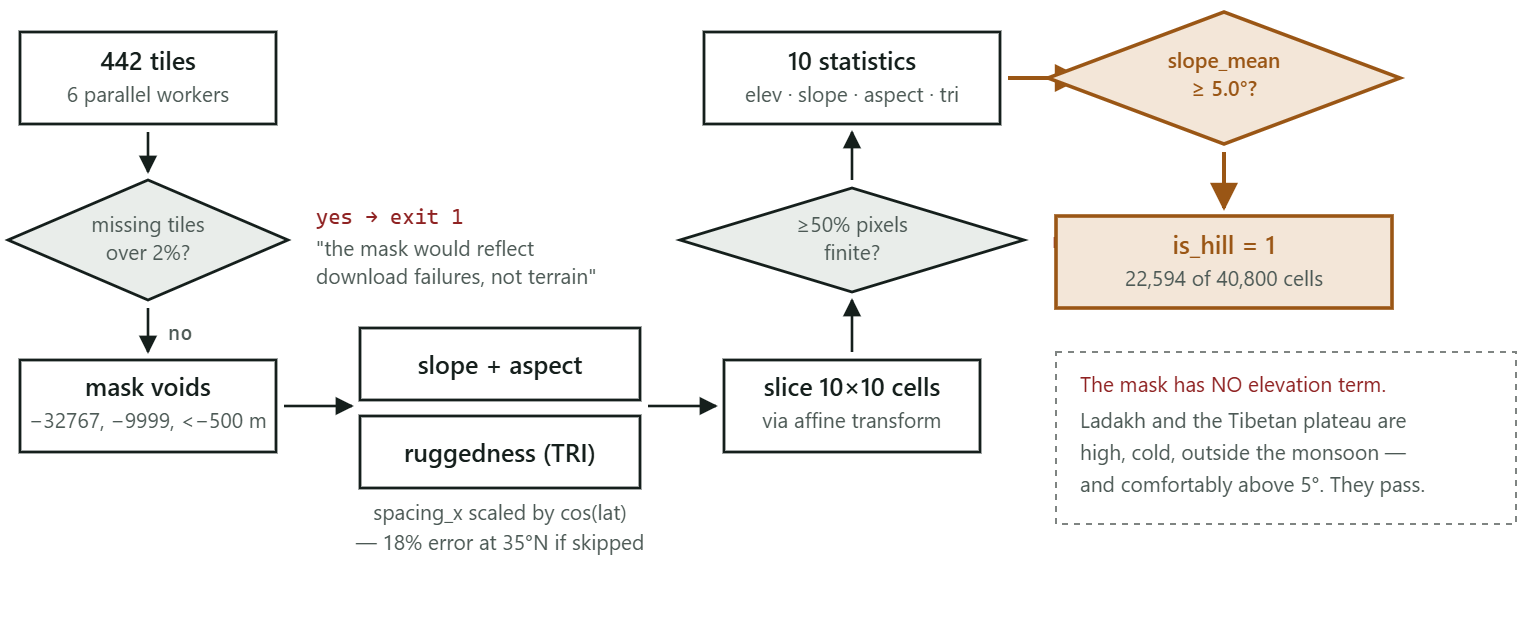
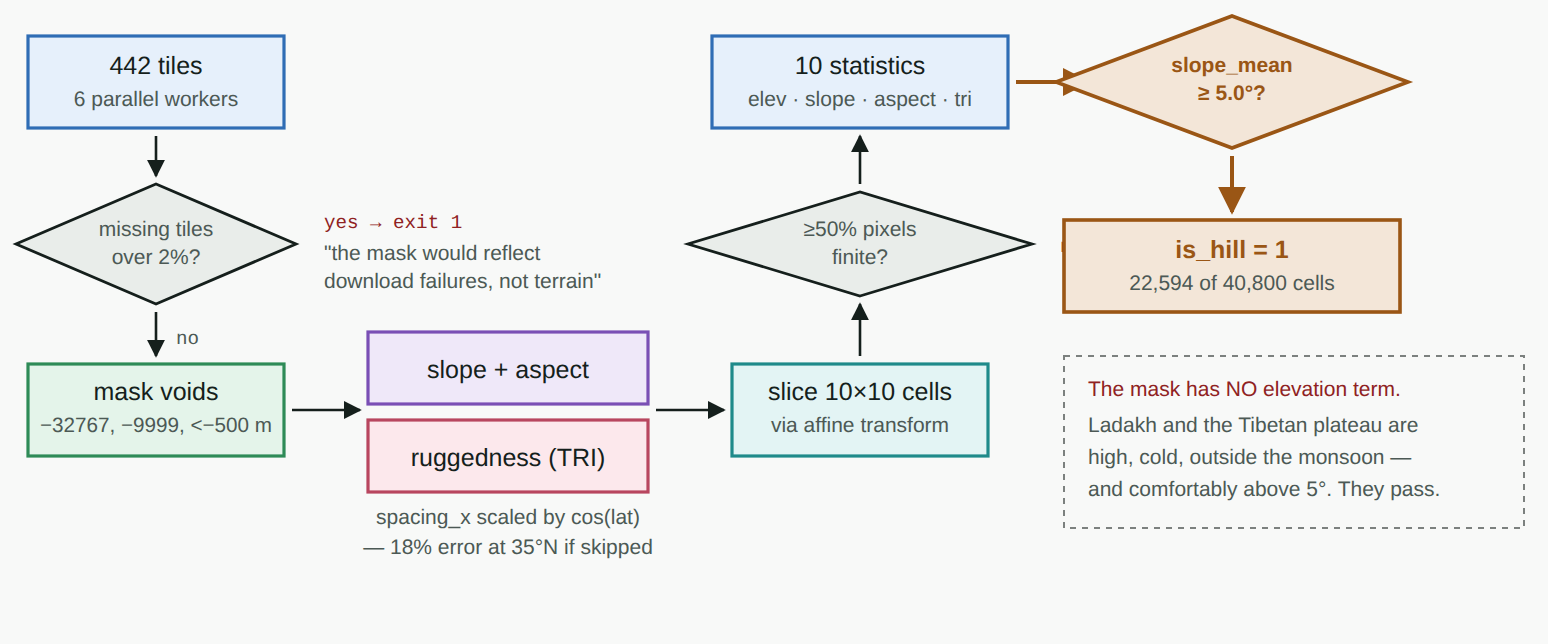
docs: fix overflowing diagram text, add colour, retake the app screenshot
_rasterize_diagrams.py re-renders docs/diagrams with a narrow face, shrinks
or moves labels that overflow their box and grows boxes whose last line
crosses the edge, and tints plain boxes in turn so siblings read apart.
_make_charts.py redraws the SHAP and region charts with plain-English
labels and colour by feature family and region. Diagram 08's axis label no
longer sits on top of '300 km'. The Model screenshot now shows the whole
budget chart without Streamlit's toolbar. Image URLs in the paste kit
carry a content hash so a redrawn image is never served stale.

Claude-Session: https://claude.ai/code/session_01VHCkLWgcENA9WNzc5taDYy

diff --git a/imarticus projects/Capstone 1/blog/_rasterize_diagrams.py b/imarticus projects/Capstone 1/blog/_rasterize_diagrams.py
@@ -1,0 +1,155 @@
+"""Render docs/diagrams/*.svg to blog/images/diagram-*.png, legibly and in colour.
+
+    python blog/_rasterize_diagrams.py
+
+The SVGs were drawn against Segoe UI. Rendered anywhere else they fall back to a
+wider face and the text spills out of its boxes, which is what Medium showed.
+This renders them with a metric-compatible narrow face, then checks every label
+against the box it sits in: a label that still overflows is shrunk to fit, and a
+box whose last line crosses its bottom edge grows to hold it.
+
+It also breaks up the single-accent palette. Plain boxes take turns through a
+set of soft tints, so sibling boxes read as distinct things at a glance, while
+the accent box keeps its orange as the one the diagram is about.
+
+Needs: playwright (and a Chromium; /opt/pw-browsers is used if present).
+"""
+import json
+from pathlib import Path
+
+from playwright.sync_api import sync_playwright
+
+BLOG = Path(__file__).resolve().parent
+SOURCE = BLOG.parent / "docs" / "diagrams"
+IMAGES = BLOG / "images"
+SCALE = 2
+
+# fill, stroke, heading ink for plain boxes, in turn
+TINTS = [
+    ("#E6F0FB", "#2F6DB5", "#1F4E86"),   # blue
+    ("#E4F4EA", "#2E8B57", "#1E6440"),   # green
+    ("#EFE8F9", "#7A4FB5", "#583589"),   # purple
+    ("#FCE8EC", "#B8465F", "#8C2F45"),   # rose
+    ("#E3F4F4", "#1F8A8A", "#166565"),   # teal
+]
+
+OVERRIDES = """
+.t, .t-b { font-family: "Liberation Sans", Arial, sans-serif !important; }
+.t-s     { font-family: "Liberation Sans", Arial, sans-serif !important; }
+.t-m     { font-family: "Liberation Mono", "DejaVu Sans Mono", monospace !important;
+           font-size: 9.6px !important; }
+"""
+
+PAGE_JS = r"""
+([tints]) => {
+  const svg = document.querySelector('svg');
+  const report = [];
+
+  // 1. colour: plain boxes take turns through the tints
+  const plain = [...svg.querySelectorAll('rect.n')];
+  plain.forEach((r, i) => {
+    const [fill, stroke] = tints[i % tints.length];
+    r.style.fill = fill; r.style.stroke = stroke; r.style.strokeWidth = '1.6px';
+    r.dataset.tint = i % tints.length;
+  });
+
+  const rects = [...svg.querySelectorAll('rect')].map(r => {
+    const b = r.getBBox();
+    return {el: r, x: b.x, y: b.y, w: b.width, h: b.height};
+  }).filter(r => r.w > 30 && r.h > 16);
+
+  const container = (t) => {
+    const x = +t.getAttribute('x'), y = +t.getAttribute('y');
+    const pick = (slack) => rects
+      .filter(r => x >= r.x && x <= r.x + r.w && y >= r.y && y <= r.y + r.h + slack)
+      .sort((a, b) => a.w * a.h - b.w * b.h)[0];
+    const strict = pick(4);
+    if (strict) return strict;
+    // A line drawn just below its box (a source slip) still belongs to that box,
+    // but only when it continues a text block: same x and anchor as the line
+    // right above it, which is itself inside the box. Axis labels do not qualify.
+    const prev = t.previousElementSibling;
+    if (prev && prev.tagName === 'text'
+        && prev.getAttribute('x') === t.getAttribute('x')
+        && prev.getAttribute('text-anchor') === t.getAttribute('text-anchor')
+        && y - +prev.getAttribute('y') <= 18) {
+      const box = pick(14);
+      const py = +prev.getAttribute('y');
+      if (box && py >= box.y && py <= box.y + box.h) return box;
+    }
+    return undefined;
+  };
+
+  // 2. headings inside a tinted box pick up its ink
+  for (const t of svg.querySelectorAll('text.t-b')) {
+    const c = container(t);
+    if (c && c.el.dataset.tint !== undefined && !t.classList.contains('t-acc')) {
+      t.style.fill = tints[+c.el.dataset.tint][2];
+    }
+  }
+
+  // 3. fit: shrink labels wider than their box, grow boxes whose text runs past the bottom
+  const PAD = 6;
+  for (const t of svg.querySelectorAll('text')) {
+    const c = container(t);
+    if (!c) continue;
+    let b = t.getBBox();
+    const anchor = t.getAttribute('text-anchor') || 'start';
+    const room = anchor === 'middle'
+      ? 2 * Math.min(+t.getAttribute('x') - c.x, c.x + c.w - +t.getAttribute('x')) - 2 * PAD
+      : anchor === 'end' ? +t.getAttribute('x') - c.x - PAD : c.x + c.w - +t.getAttribute('x') - PAD;
+    if (b.width > room && anchor === 'start' && room <= 20) {
+      // Too close to the right edge to shrink sensibly: slide it left to fit.
+      const x = c.x + c.w - PAD - b.width;
+      if (x >= c.x + PAD) {
+        t.setAttribute('x', x.toFixed(1));
+        report.push(`moved "${t.textContent.slice(0, 40)}" left to ${x.toFixed(1)}`);
+        b = t.getBBox();
+      }
+    } else if (b.width > room && room > 20) {
+      const size = parseFloat(getComputedStyle(t).fontSize);
+      t.style.setProperty('font-size', (size * room / b.width).toFixed(2) + 'px', 'important');
+      report.push(`shrunk "${t.textContent.slice(0, 40)}" ${size}px -> ${(size * room / b.width).toFixed(1)}px`);
+      b = t.getBBox();
+    }
+    const bottom = b.y + b.height + 4;
+    if (bottom > c.y + c.h) {
+      const grow = bottom - (c.y + c.h);
+      c.el.setAttribute('height', (c.h + grow).toFixed(1));
+      c.h += grow;
+      report.push(`grew box under "${t.textContent.slice(0, 40)}" by ${grow.toFixed(1)}`);
+    }
+  }
+
+  // 4. make sure nothing now sits outside the canvas
+  const bb = svg.getBBox();
+  const vb = svg.viewBox.baseVal;
+  const x0 = Math.min(vb.x, bb.x - 8), y0 = Math.min(vb.y, bb.y - 8);
+  const x1 = Math.max(vb.x + vb.width, bb.x + bb.width + 8), y1 = Math.max(vb.y + vb.height, bb.y + bb.height + 8);
+  svg.setAttribute('viewBox', `${x0} ${y0} ${x1 - x0} ${y1 - y0}`);
+  svg.setAttribute('width', x1 - x0); svg.setAttribute('height', y1 - y0);
+  return report;
+}
+"""
+
+
+def main():
+    exe = next(Path("/opt/pw-browsers").glob("chromium-*/chrome-linux/chrome"), None) if Path("/opt/pw-browsers").exists() else None
+    with sync_playwright() as p:
+        browser = p.chromium.launch(executable_path=str(exe) if exe else None)
+        page = browser.new_page(device_scale_factor=SCALE, color_scheme="light")
+        for svg_path in sorted(SOURCE.glob("*.svg")):
+            svg = svg_path.read_text(encoding="utf-8").split("?>", 1)[-1]
+            svg = svg.replace("</style>", OVERRIDES + "</style>", 1)
+            page.set_content(f"<html><body style='margin:0;background:#fff'>{svg}</body></html>")
+            report = page.evaluate(PAGE_JS, [TINTS])
+            out = IMAGES / f"diagram-{svg_path.stem}.png"
+            page.locator("svg").screenshot(path=str(out))
+            print(f"{out.name}: {len(report)} fixes")
+            for line in report:
+                print("   ", line)
+        browser.close()
+
+
+if __name__ == "__main__":
+    main()

diff --git a/imarticus projects/Capstone 1/blog/_make_charts.py b/imarticus projects/Capstone 1/blog/_make_charts.py
@@ -1,0 +1,126 @@
+"""Blog versions of the two charts that can be drawn from committed artefacts.
+
+    python blog/_make_charts.py
+
+The report figures (scripts/14_report_figures.py) use two colours, which suits a
+technical README. The blog is read by people who have never seen a SHAP value,
+so these versions label features in plain English, colour them by what kind of
+signal they are, and give each region its own colour.
+
+Reads models/feature_importance_v1.csv and models/metrics_v1.json only.
+"""
+import json
+from pathlib import Path
+
+import matplotlib
+
+matplotlib.use("Agg")
+import matplotlib.pyplot as plt  # noqa: E402
+import pandas as pd  # noqa: E402
+
+BLOG = Path(__file__).resolve().parent
+MODELS = BLOG.parent / "models"
+IMAGES = BLOG / "images"
+
+INK, MUTED, RULE = "#1F2A2E", "#6B7A80", "#D5DCDF"
+FAMILIES = {
+    "Rainfall": "#2F6DB5",
+    "Soil moisture & evaporation": "#2E8B57",
+    "Terrain": "#C0661B",
+    "History & calendar": "#7A4FB5",
+}
+LABELS = {
+    "rain_1d": "Rain today",
+    "rain_3d": "Rain, last 3 days",
+    "wet_days_30": "Wet days in the last 30",
+    "slope_std": "Slope roughness",
+    "et0_7d": "Evaporation, last 7 days",
+    "rain_max_1d_in_30": "Wettest day in the last 30",
+    "aspect_cos": "Slope direction (north–south)",
+    "hist_events_before": "Past landslides in this cell",
+    "rain_15d": "Rain, last 15 days",
+    "sm_0_7_delta_7d": "Topsoil moisture change, 7 days",
+    "elev_range": "Elevation range in the cell",
+    "rain_30d": "Rain, last 30 days",
+    "rain_30d_anomaly": "30-day rain vs normal",
+    "slope_max": "Steepest slope in the cell",
+    "rain_max_1d_in_7": "Wettest day in the last 7",
+}
+
+plt.rcParams.update({
+    "font.family": "DejaVu Sans", "font.size": 10, "text.color": INK,
+    "axes.edgecolor": RULE, "axes.labelcolor": INK, "xtick.color": MUTED,
+    "ytick.color": INK, "axes.titleweight": "bold", "axes.titlesize": 13,
+})
+
+
+def family(name: str) -> str:
+    if name.startswith(("rain", "wet_days", "api")):
+        return "Rainfall"
+    if name.startswith(("sm_", "et0", "wetness")):
+        return "Soil moisture & evaporation"
+    if name.startswith(("elev", "slope", "aspect", "tri")):
+        return "Terrain"
+    return "History & calendar"
+
+
+def shap_chart():
+    top = pd.read_csv(MODELS / "feature_importance_v1.csv").head(15).iloc[::-1]
+    colours = [FAMILIES[family(f)] for f in top["feature"]]
+    labels = [LABELS.get(f, f) for f in top["feature"]]
+
+    fig, ax = plt.subplots(figsize=(8.4, 6.2), dpi=180)
+    ax.barh(labels, top["mean_abs_shap"], color=colours, height=0.72)
+    for y, value in enumerate(top["mean_abs_shap"]):
+        ax.text(value + 0.003, y, f"{value:.3f}", va="center", fontsize=8.5, color=MUTED)
+    ax.set_title("What the model pays attention to (top 15 inputs)", loc="left", pad=14)
+    ax.set_xlabel("average influence on a prediction (mean |SHAP|)", color=MUTED)
+    ax.spines[["top", "right"]].set_visible(False)
+    ax.grid(axis="x", color=RULE, alpha=0.6)
+    ax.set_axisbelow(True)
+    handles = [plt.Rectangle((0, 0), 1, 1, color=c) for c in FAMILIES.values()]
+    ax.legend(handles, FAMILIES.keys(), loc="lower right", frameon=False, fontsize=9)
+    fig.tight_layout()
+    fig.savefig(IMAGES / "chart-shap.png", facecolor="white")
+    plt.close(fig)
+
+
+REGION_COLOURS = {
+    "central_himalaya": ("Central Himalaya", "#2F6DB5"),
+    "west_himalaya": ("West Himalaya", "#2E8B57"),
+    "eastern_himalaya": ("Eastern Himalaya", "#7A4FB5"),
+    "north_east": ("North East", "#B8465F"),
+}
+
+
+def region_chart():
+    scores = json.loads((MODELS / "metrics_v1.json").read_text(encoding="utf-8"))
+    blocks = pd.DataFrame(scores["spatial_cv"]).sort_values("pr_auc")
+    temporal = scores["scores"][scores["selected"]]["test"]["pr_auc"]
+    names = [REGION_COLOURS[b][0] for b in blocks["block"]]
+    colours = [REGION_COLOURS[b][1] for b in blocks["block"]]
+
+    fig, ax = plt.subplots(figsize=(8.4, 4.2), dpi=180)
+    ax.barh(names, blocks["pr_auc"], color=colours, height=0.62)
+    for y, value in enumerate(blocks["pr_auc"]):
+        # inside the bar's end, so no value can collide with the reference line
+        ax.text(value - 0.005, y, f"{value:.3f}", va="center", ha="right",
+                fontsize=10, color="white", fontweight="bold")
+    ax.axvline(temporal, color="#C0661B", linewidth=2.2)
+    ax.text(temporal + 0.003, len(blocks) - 0.45, f"test on future years  {temporal:.3f}",
+            color="#C0661B", fontsize=9, fontweight="bold", va="bottom")
+    ax.set_xlim(0, max(blocks["pr_auc"].max(), temporal) * 1.3)
+    ax.set_title("Does it work in a region it never trained on?", loc="left", pad=22)
+    ax.set_xlabel("PR-AUC with that whole region held out of training", color=MUTED)
+    ax.spines[["top", "right"]].set_visible(False)
+    ax.grid(axis="x", color=RULE, alpha=0.6)
+    ax.set_axisbelow(True)
+    fig.tight_layout()
+    fig.savefig(IMAGES / "chart-region_generalisation.png", facecolor="white")
+    plt.close(fig)
+
+
+if __name__ == "__main__":
+    shap_chart()
+    region_chart()
+    print("wrote chart-shap.png, chart-region_generalisation.png")

diff --git a/imarticus projects/Capstone 1/blog/_build_medium_paste.py b/imarticus projects/Capstone 1/blog/_build_medium_paste.py
@@ -10,6 +10,7 @@ GitHub URLs, so Medium can fetch and rehost them during the paste.
 Needs: markdown, playwright (and a Chromium; /opt/pw-browsers is used if present).
 """
 import argparse
+import hashlib
 import html
 import re
 from pathlib import Path
@@ -102,7 +103,10 @@ def build(ref, skip_render, embed_to=None):
             # e.g. app screenshots that have to be taken on a machine running the warehouse
             missing.append(name)
             return ""
-        return figure(src, alt)
+        # A content fingerprint in the URL, so a redrawn image never comes back
+        # from a CDN or Medium cache under the old address.
+        digest = hashlib.md5((IMAGES / name).read_bytes()).hexdigest()[:10]
+        return figure(f"{src}?v={digest}", alt)
 
     body = re.sub(r'<p><img alt="([^"]*)" src="([^"]*)" ?/?></p>', img_to_figure, body)
 
